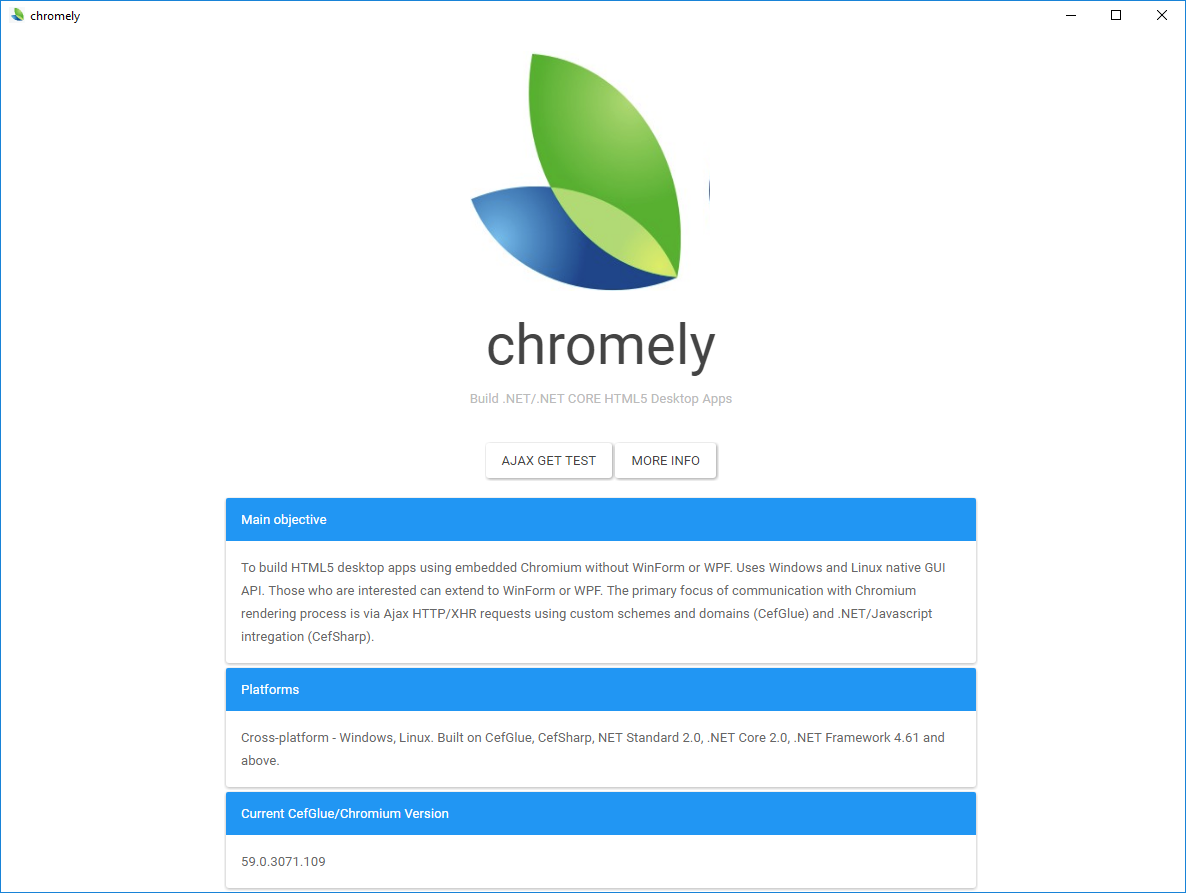
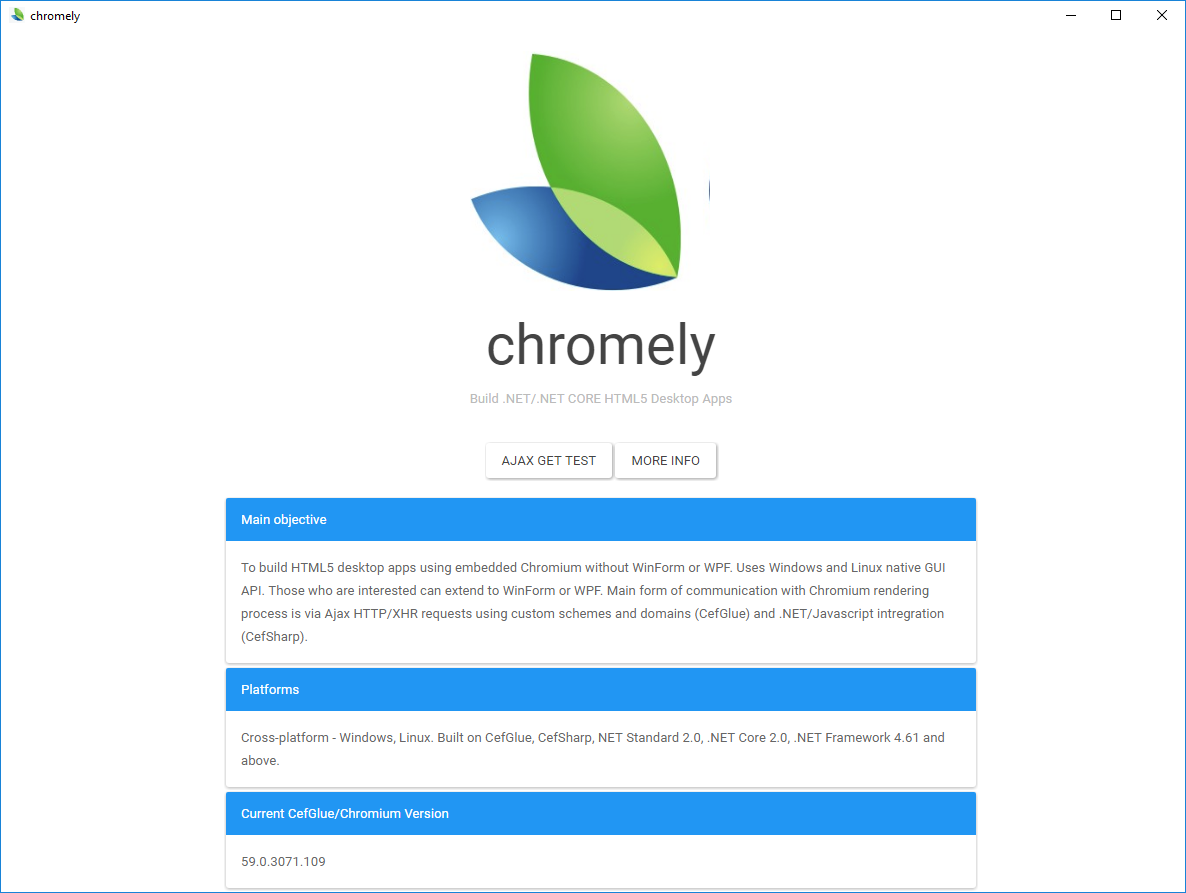
Added .NET/Javascript async callbacks.

Changed region(s): [[0.1872, 0.6349, 0.8111, 0.7256]]

diff --git a/ChromelySolution/Chromely/RestfulService/CefSharpRequestTaskRunner.cs b/ChromelySolution/Chromely/RestfulService/CefSharpRequestTaskRunner.cs
@@ -106,7 +106,7 @@ namespace Chromely.RestfulService
             string chromeVersion = String.Format("Chromium: {0}, CEF: {1}, CefSharp: {2}, Environment: {3}", Cef.ChromiumVersion, Cef.CefVersion, Cef.CefSharpVersion, bitness);
 
             Dictionary<string, string> infoItemDic = new Dictionary<string, string>();
-            infoItemDic.Add("divObjective", "To build HTML5 desktop apps using embedded Chromium without WinForm or WPF. Uses Windows and Linux native GUI API. Those who are interested can extend to WinForm or WPF. The primary focus of communication with Chromium rendering process is via Ajax HTTP/XHR requests using custom schemes and domains (CefGlue) and .NET/Javascript intregation (CefSharp).");
+            infoItemDic.Add("divObjective", "To build HTML5 desktop apps using embedded Chromium without WinForm or WPF. Uses Windows and Linux native GUI API. Those who are interested can extend to WinForm or WPF. Main form of communication with Chromium rendering process is via Ajax HTTP/XHR requests using custom schemes and domains (CefGlue) and .NET/Javascript intregration (CefSharp).");
             infoItemDic.Add("divPlatform", "Cross-platform - Windows, Linux. Built on CefGlue, CefSharp, NET Standard 2.0, .NET Core 2.0, .NET Framework 4.61 and above.");
             infoItemDic.Add("divVersion", chromeVersion);
 

diff --git a/ChromelySolution/Chromely.Core/RestfulService/CefGlueRequestTaskRunner.cs b/ChromelySolution/Chromely.Core/RestfulService/CefGlueRequestTaskRunner.cs
@@ -91,7 +91,7 @@ namespace Chromely.Core.RestfulService
                 string chromeVersion = CefRuntime.ChromeVersion;
 
                 Dictionary<string, string> infoItemDic = new Dictionary<string, string>();
-                infoItemDic.Add("divObjective", "To build HTML5 desktop apps using embedded Chromium without WinForm or WPF. Uses Windows and Linux native GUI API. Those who are interested can extend to WinForm or WPF. The primary focus of communication with Chromium rendering process is via Ajax HTTP/XHR requests using custom schemes and domains (CefGlue) and .NET/Javascript intregation (CefSharp).");
+                infoItemDic.Add("divObjective", "To build HTML5 desktop apps using embedded Chromium without WinForm or WPF. Uses Windows and Linux native GUI API. Those who are interested can extend to WinForm or WPF. Main form of communication with Chromium rendering process is via Ajax HTTP/XHR requests using custom schemes and domains (CefGlue) and .NET/Javascript intregration (CefSharp).");
                 infoItemDic.Add("divPlatform", "Cross-platform - Windows, Linux. Built on CefGlue, CefSharp, NET Standard 2.0, .NET Core 2.0, .NET Framework 4.61 and above.");
                 infoItemDic.Add("divVersion", chromeVersion);
 

diff --git a/ChromelySolution/Chromely.Core/ChromelyConfiguration.cs b/ChromelySolution/Chromely.Core/ChromelyConfiguration.cs
@@ -36,13 +36,13 @@ namespace Chromely.Core
             LogFile = "logs\\chromely.log";
         }
 
-        public string[] AppArgs { get; private set; }
-        public string StartUrl { get; private set; }
-        public int HostWidth { get; private set; }
-        public int HostHeight { get; private set; }
-        public LogSeverity LogSeverity { get; private set; }
-        public string CefLogFile { get; private set; }
-        public string LogFile { get; private set; }
+        public string[] AppArgs { get; set; }
+        public string StartUrl { get; set; }
+        public int HostWidth { get; set; }
+        public int HostHeight { get; set; }
+        public LogSeverity LogSeverity { get; set; }
+        public string CefLogFile { get; set; }
+        public string LogFile { get; set; }
 
         public static ChromelyConfiguration Create()
         {
